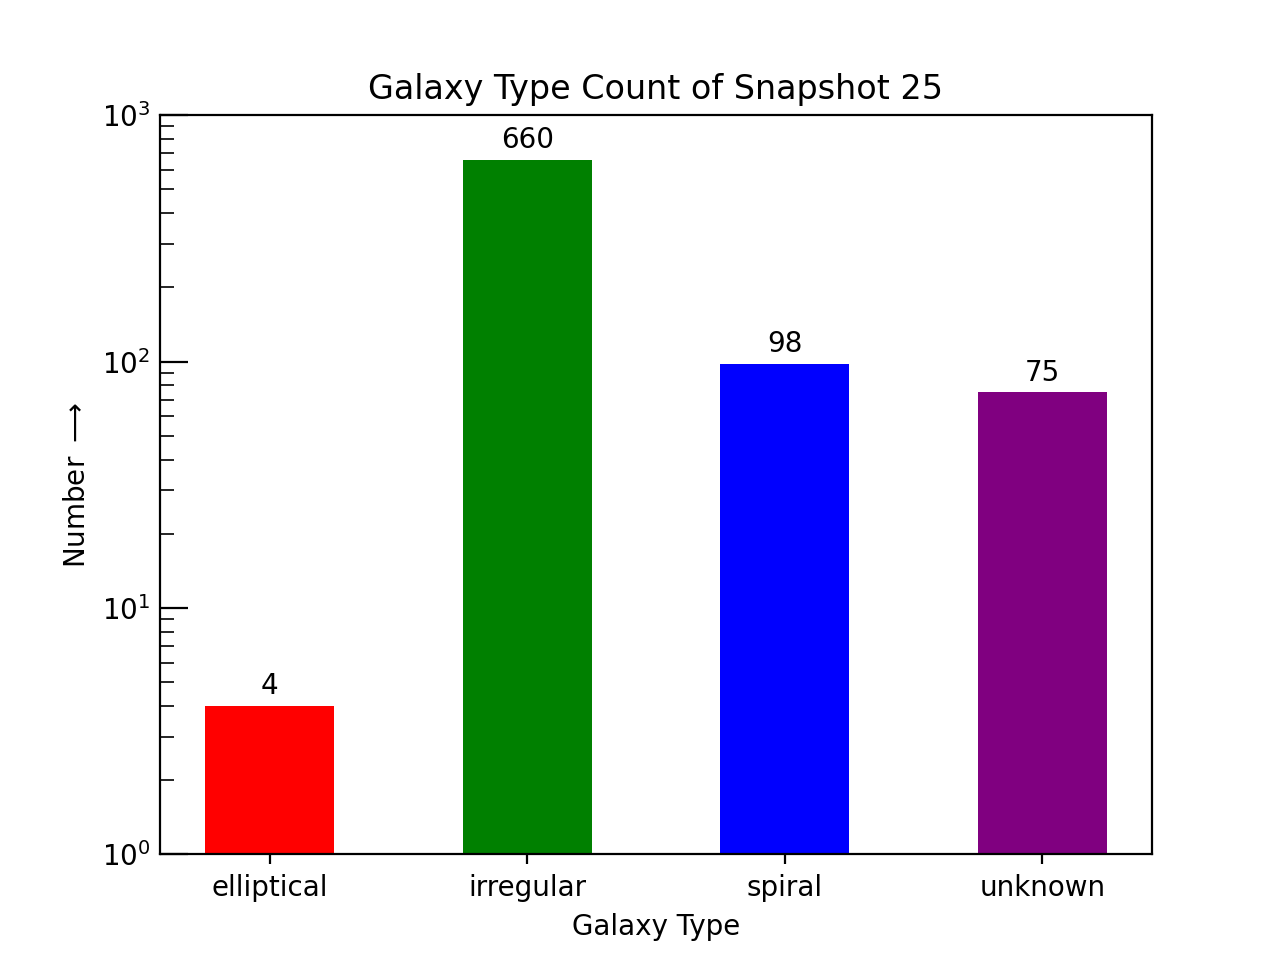
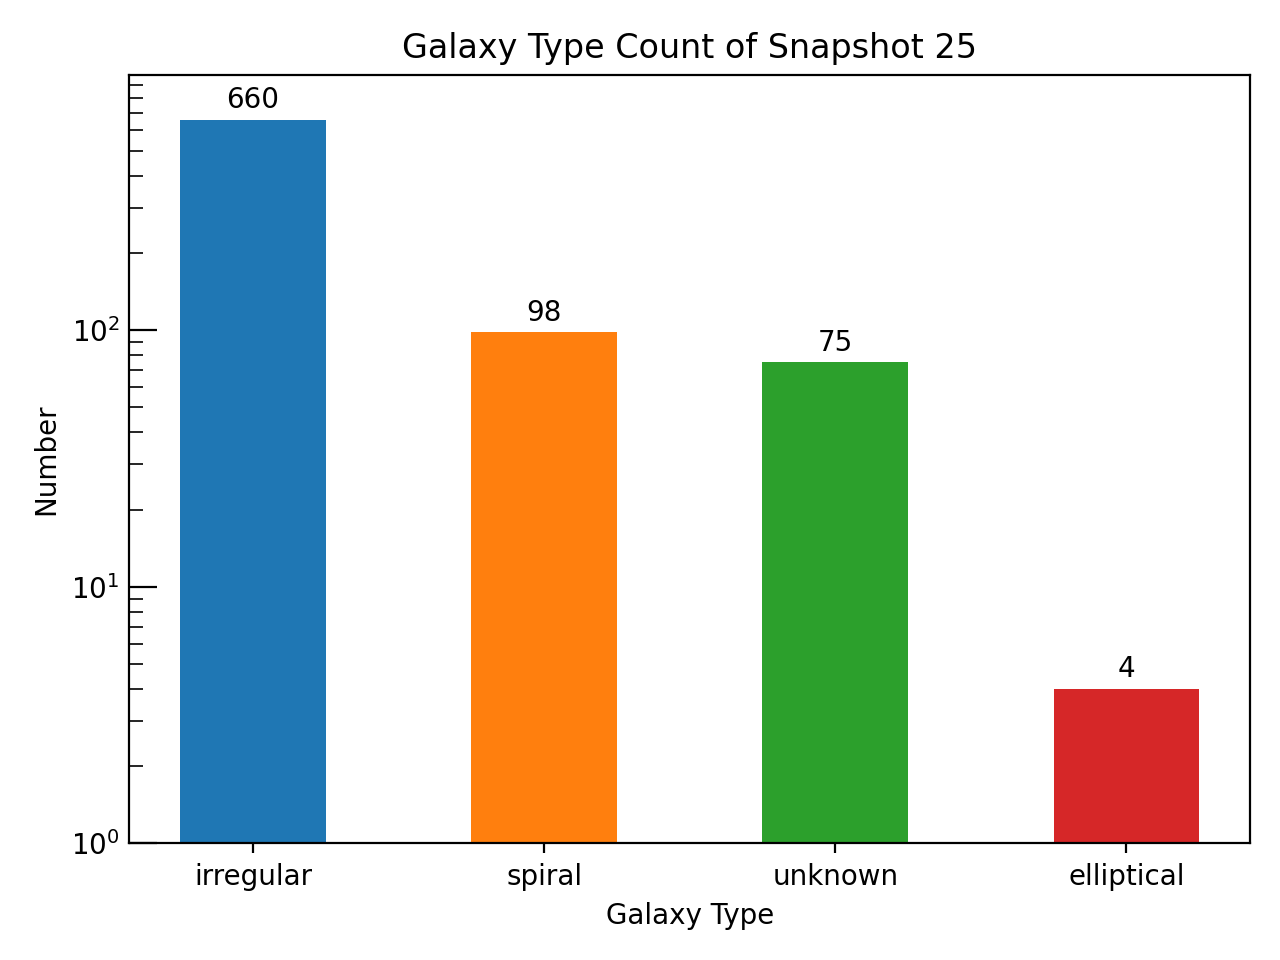
rename the function name: upper_case-->lower_case && changes in the core.py

diff --git a/galmorph/core.py b/galmorph/core.py
@@ -1,6 +1,7 @@
 import pandas as pd
 import matplotlib.pyplot as plt
 import os
+from typing import Optional, Dict, Any, List
 
 
 class GalMorph:
@@ -9,17 +10,18 @@ class GalMorph:
 
     Attributes:
         data (pd.DataFrame): DataFrame containing galaxy morphology data loaded from a pickle file.
-    Parameters: 
-            file_path (str): Path to the pickle file containing galaxy morphology data.
-            snapshot_values (list): List of unique snapshot values from the data.
-            galaxies_count (list): List of counts of galaxies for each snapshot.
-            galaxy_type_count_dict (dict): Dictionary to count the number of galaxies of each type in a snapshot.
-        
     """
 
-    def __init__(self, file_path):
+    def __init__(self, file_path: str):
         """
         Initializes the GalMorph object by loading data from a pickle file.
+
+        Parameters:
+            file_path (str): Path to the pickle file containing galaxy morphology data.
+
+        Raises:
+            FileNotFoundError: If the pickle file does not exist.
+            pd.errors.EmptyDataError: If the pickle file is empty or invalid.
         """
         if not os.path.exists(file_path):
             raise FileNotFoundError(f"File '{file_path}' does not exist.")
@@ -28,18 +30,42 @@ class GalMorph:
         except Exception as e:
             raise pd.errors.EmptyDataError(f"Could not load pickle file '{file_path}': {e}")
 
-    def _assign_galaxy_type(self, row, thresholds:dict={
-    'elliptical': 0.7,'spiral': 0.6,'irregular': 0.5}) -> str:
+        self._validate_required_columns({"Snapshot", "P_Spheroid", "P_Disk", "P_Irr", "SubhaloID"})
+
+        # Precompute galaxy types for efficiency
+        self.data["Galaxy_type"] = self.data.apply(self._assign_galaxy_type, axis=1)
+
+    def _validate_required_columns(self, required_cols: set):
+        """
+        Checks if required columns are present in self.data.
+
+        Parameters:
+            required_cols (set): Set of required column names.
+
+        Raises:
+            ValueError: If any required columns are missing.
+        """
+        missing_cols = required_cols - set(self.data.columns)
+        if missing_cols:
+            raise ValueError(f"Missing columns in data: {missing_cols}")
+
+    def _assign_galaxy_type(
+        self,
+        row: pd.Series,
+        thresholds: Optional[Dict[str, float]] = None
+    ) -> str:
         """
         Assigns a galaxy type based on the highest value among three input columns.
 
         Parameters:
             row (pd.Series): A row from a DataFrame, containing columns "P_Spheroid", "P_Disk", & "P_Irr"
-            thresholds (dict): Dictionary of critical values, e.g., {'elliptical': 0.7, 'spiral': 0.6, 'irregular': 0.5}
+            thresholds (dict, optional): Dictionary of critical values.
+
         Returns:
-            str: 'elliptical', 'spiral', or 'irregular' depending on which value is highest.
-        
+            str: 'elliptical', 'spiral', 'irregular', or 'unknown' depending on which value is highest.
         """
+        if thresholds is None:
+            thresholds = {'elliptical': 0.7, 'spiral': 0.6, 'irregular': 0.5}
         try:
             values = {
                 'elliptical': row["P_Spheroid"],
@@ -50,108 +76,126 @@ class GalMorph:
             raise KeyError(f"Missing expected column in row: {e}")
         max_type = max(values, key=values.get)
         max_value = values[max_type]
-        
         if max_value >= thresholds[max_type]:
             return max_type
         else:
             return 'unknown'
 
-    def Galaxy_count(self, file_name="galaxy_count.png"):
+    def galaxy_count(self, file_name: str = "galaxy_count.png", show: bool = True) -> plt.Figure:
         """
         Plots the number of galaxies for each snapshot and saves the plot as an image.
 
         Parameters:
             file_name (str): Name of the output image file for the plot. Default is "galaxy_count.png".
-        
-        """
-        if "Snapshot" not in self.data.columns:
-            raise ValueError("Column 'Snapshot' not found in data.")
-        self.snapshot_values = self.data["Snapshot"].drop_duplicates().to_list()
-        galaxies_count = []
-        for val in self.snapshot_values:
-            galaxies_count.append(self.data[self.data["Snapshot"]==val].shape[0])
+            show (bool): Whether to display the plot. Default is False.
 
-        plt.figure(figsize = [6, 5])
-        plt.plot(self.snapshot_values, galaxies_count, ls = "-.")
-        plt.scatter(self.snapshot_values, galaxies_count, marker="o", color = "red")
-        plt.minorticks_on()
-        plt.xlabel("Snapshot")
-        plt.ylabel("Galaxy Count")
+        Returns:
+            plt.Figure: The matplotlib Figure object.
+        """
+        snapshots = self.data["Snapshot"].drop_duplicates().sort_values()
+        galaxies_count = [self.data[self.data["Snapshot"] == val].shape[0] for val in snapshots]
+
+        fig, ax = plt.subplots(figsize=(6, 5))
+        ax.plot(snapshots, galaxies_count, ls="-.")
+        ax.scatter(snapshots, galaxies_count, marker="o", color="red")
+        ax.minorticks_on()
+        ax.set_xlabel("Snapshot")
+        ax.set_ylabel("Galaxy Count")
+        fig.tight_layout()
         try:
-            plt.savefig(f"{file_name}", dpi = 130)
+            fig.savefig(file_name, dpi=130)
         except Exception as e:
             print(f"Error saving plot to '{file_name}': {e}")
-        plt.show()
+        if show:
+            plt.show()
+        plt.close(fig)
+        return fig
 
-    def Galaxy_type_snap(self, snapshot_num:int=25, output_fname = "bar.png"):
+    def galaxy_type_snap(
+        self,
+        snapshot_num: int = 25,
+        output_fname: str = "bar.png",
+        show: bool = True
+    ) -> plt.Figure:
         """
         Plots a bar chart of galaxy type counts for a specific snapshot and saves the plot as an image.
 
         Parameters:
             snapshot_num (int): The snapshot number to analyze. Default is 25.
             output_fname (str): Name of the output image file for the plot. Default is "bar.png".
+            show (bool): Whether to display the plot. Default is False.
 
         Returns:
-            None: The function saves the plot as an image file.
-       
-         Note:
-            This creates a bar plot to visualize the counts of each galaxy type.
-             -The x-axis represents the galaxy types, and the y-axis represents the counts.
+            plt.Figure: The matplotlib Figure object.
 
-             -The y-axis is set to a logarithmic scale for better visibility of differences.
-             
-             -The bars are colored differently for each type.
-        
+        Raises:
+            ValueError: If the snapshot is not found in the data.
         """
-        required_cols = {"P_Spheroid", "P_Disk", "P_Irr", "Snapshot", "SubhaloID"}
-        missing_cols = required_cols - set(self.data.columns)
-        if missing_cols:
-            raise ValueError(f"Missing columns in data: {missing_cols}")
-
-        available_snapshots = self.data["Snapshot"].unique()
-        # Convert to plain Python ints for display
-        available_snapshots_list = sorted([int(s) for s in available_snapshots])
+        available_snapshots = sorted([int(s) for s in self.data["Snapshot"].unique()])
         if snapshot_num not in available_snapshots:
             raise ValueError(
                 f"Snapshot {snapshot_num} not found in data. "
-                f"Available snapshots are: {available_snapshots_list}")
+                f"Available snapshots are: {available_snapshots}"
+            )
 
-        self.data["Galaxy_type"] = self.data.apply(self._assign_galaxy_type, axis=1)
-        snapshot_galaxy = self.data[self.data["Snapshot"]==snapshot_num].reset_index()
-
+        snapshot_galaxy = self.data[self.data["Snapshot"] == snapshot_num]
         if snapshot_galaxy.empty:
             raise ValueError(f"No data found for snapshot {snapshot_num}.")
 
-        # Create a dictionary to count the number of galaxies of each type in the snapshot.
-        galaxy_type_count_dict = {}
-        for gal_type in snapshot_galaxy["Galaxy_type"].drop_duplicates().values:
-            galaxy_type_count_dict[gal_type] = snapshot_galaxy[snapshot_galaxy["Galaxy_type"] == gal_type].shape[0]
-        
+        galaxy_type_counts = snapshot_galaxy["Galaxy_type"].value_counts().to_dict()
 
-        bar_colors = ['red', 'green', 'blue', 'purple']
+        from matplotlib import colormaps  # New recommended way
+
+        # Get the tab10 colormap
+        color_cycle = colormaps['tab10']
+
+        # Assign colors, wrapping around if galaxy types exceed 10
+        bar_colors = [color_cycle(i % color_cycle.N) for i in range(len(galaxy_type_counts))]
+
+
         fig, ax = plt.subplots()
-        ax.set_ylim(1, 1000)
-        bars = ax.bar(list(galaxy_type_count_dict.keys()), list(galaxy_type_count_dict.values()), color = bar_colors, width = 0.5)
+        ax.set_ylim(1, max(galaxy_type_counts.values()) * 1.5)
+        bars = ax.bar(
+            list(galaxy_type_counts.keys()),
+            list(galaxy_type_counts.values()),
+            color=bar_colors,
+            width=0.5
+        )
         ax.bar_label(bars, label_type='edge', padding=2, color='black', fontsize=10)
         ax.set_title(f"Galaxy Type Count of Snapshot {snapshot_num}")
-        ax.set_ylabel(r"Number $\longrightarrow$")
+        ax.set_ylabel("Number")
         ax.set_xlabel("Galaxy Type")
-        ax.tick_params(axis='y', which = 'major', length = 10, direction = "in")
-        ax.tick_params(axis='y', which = 'minor', length = 5, direction = "in")
+        ax.tick_params(axis='y', which='major', length=10, direction="in")
+        ax.tick_params(axis='y', which='minor', length=5, direction="in")
         ax.set_yscale('log')
+        fig.tight_layout()
         try:
-            file_name = "Snap_" + str(snapshot_num) + "_" + output_fname
-            plt.savefig(file_name, dpi = 200)
+            file_name = f"Snap_{snapshot_num}_{output_fname}"
+            fig.savefig(file_name, dpi=200)
         except Exception as e:
-            print(f"Error saving plot to '{output_fname}': {e}")
-        plt.show()
+            print(f"Error saving plot to '{file_name}': {e}")
+        if show:
+            plt.show()
+        plt.close(fig)
+        return fig
+
+    def available_snapshots(self) -> List[int]:
+        """
+        Returns a sorted list of available snapshot numbers.
+
+        Returns:
+            List[int]: Sorted list of snapshot numbers.
+        """
+        return sorted([int(s) for s in self.data["Snapshot"].unique()])
 
 
 if __name__ == "__main__":
     """
     Example usage of the GalMorph class.
     Loads galaxy morphology data and generates a bar plot for a specific snapshot.
-    
     """
-    GalSim = GalMorph(file_path="data/morphologies_snapshot_data.pkl")
-    GalSim.Galaxy_type_snap(snapshot_num=34)
+    try:
+        GalSim = GalMorph(file_path="data/morphologies_snapshot_data.pkl")
+        GalSim.galaxy_type_snap()
+    except Exception as e:
+        print(f"Error: {e}")
